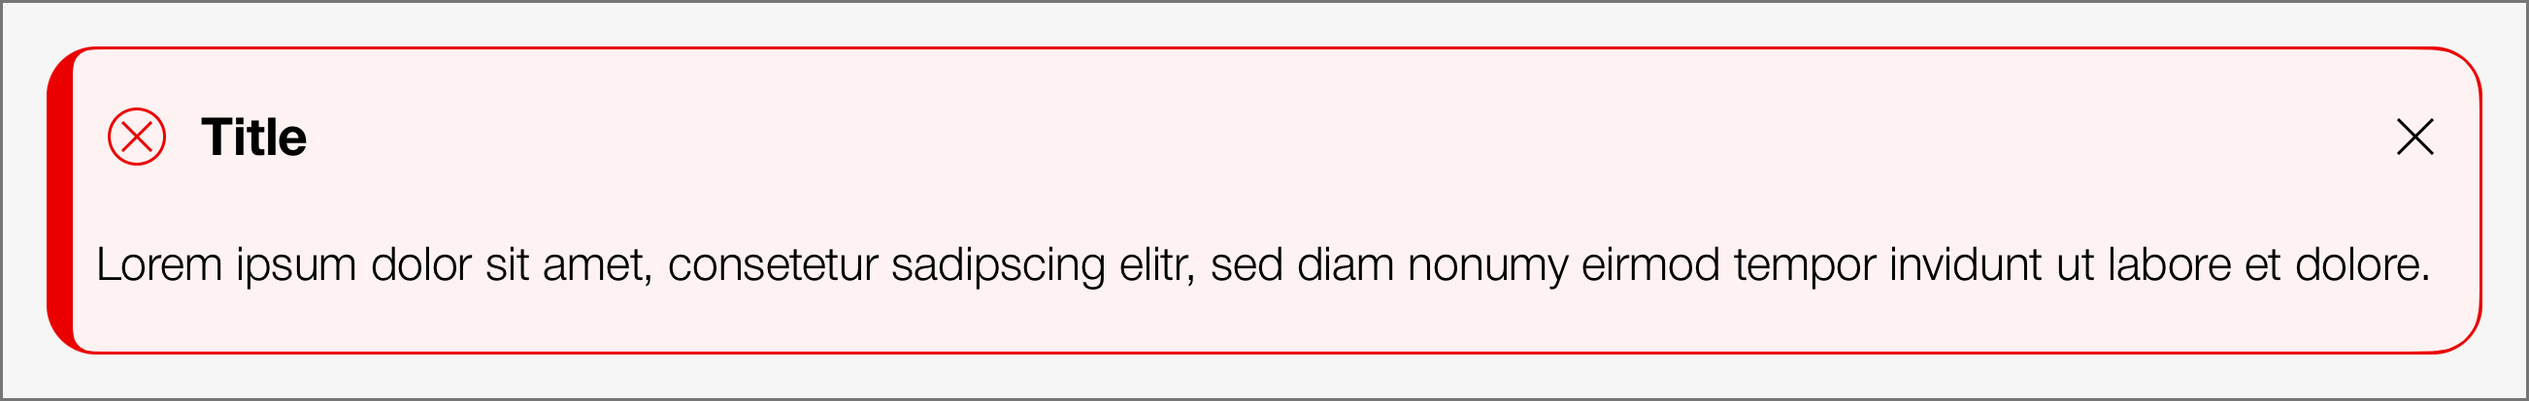
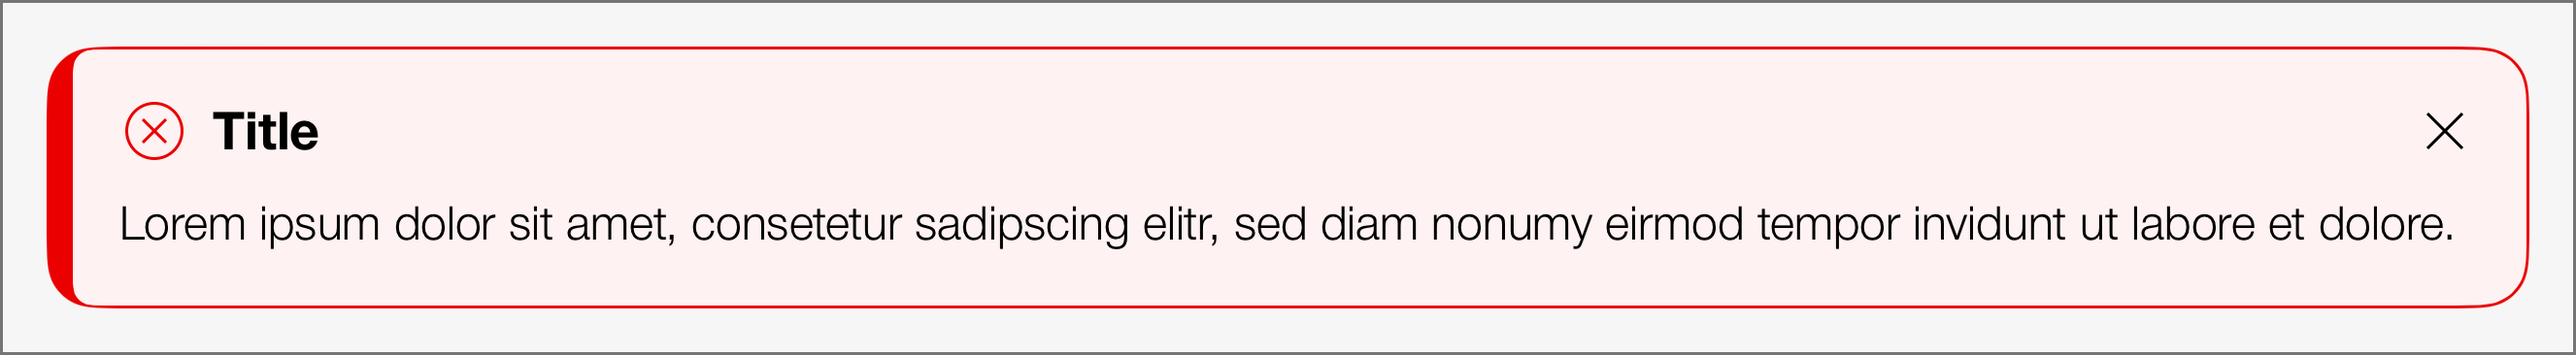
Update notifications with new feature: retry button

diff --git a/SBBDesignSystemMobileSwiftUI/Views/SBBNotification.swift b/SBBDesignSystemMobileSwiftUI/Views/SBBNotification.swift
@@ -34,60 +34,16 @@ public struct SBBNotification: View {
     let canBeClosed: Bool
     let onClose: (() -> ())?
     let onMoreInfo: (() -> ())?
+    let onRetry: (() -> ())?
     let maxNumberLines: Int?
     let closeAfterSeconds: Int?
+    var moreInfoAccessibility: String = "more info".localized
+    var retryAccessibility: String = "retry".localized
     
     private var timer: Timer?
     
     /**
-     Returns a SBBNotification.
-     
-     - Parameters:
-        - isPresented: Whether the notification is displayed.
-        - statusType: The type of status for the notification.
-        - title: The title of the notification.
-        - text: The content text for the notification.
-        - maxNumberLines: The optional max of number of lines used by the text.
-        - closeAfterSeconds: The optional time in seconds after which the notification closes.
-        - onClose: The optional action to do when the notification is closed.
-        - onMoreInfo: The optional action to do when tapping on more action (only displayed if there is indeed an action).
-     */
-    public init(isPresented: Binding<Bool>, statusType: StatusType, title: Text, text: Text, maxNumberLines: Int? = nil, closeAfterSeconds: Int? = nil, onClose: (() -> ())? = nil, onMoreInfo: (() -> ())? = nil) {
-        self._isPresented = isPresented
-        self.canBeClosed = true
-        self.statusType = statusType
-        self.title = title
-        self.text = text
-        self.maxNumberLines = maxNumberLines
-        self.closeAfterSeconds = closeAfterSeconds
-        self.onClose = onClose
-        self.onMoreInfo = onMoreInfo
-    }
-    
-    /**
-     Returns a SBBNotification.
-     
-     - Parameters:
-        - statusType: The type of status for the notification.
-        - title: The title of the notification.
-        - text: The content text for the notification.
-        - maxNumberLines: The optional max of number of lines used by the text.
-        - onMoreInfo: The optional action to do when tapping on more action (only displayed if there is indeed an action).
-     */
-    public init(statusType: StatusType, title: Text, text: Text, maxNumberLines: Int? = nil, onMoreInfo: (() -> ())? = nil) {
-        self._isPresented = .constant(true)
-        self.canBeClosed = false
-        self.statusType = statusType
-        self.title = title
-        self.text = text
-        self.maxNumberLines = maxNumberLines
-        self.closeAfterSeconds = nil
-        self.onClose = nil
-        self.onMoreInfo = onMoreInfo
-    }
-    
-    /**
-     Returns a SBBNotification.
+     Returns a SBBNotification that can be closed.
      
      - Parameters:
         - isPresented: Whether the notification is displayed.
@@ -107,10 +63,40 @@ public struct SBBNotification: View {
         self.closeAfterSeconds = closeAfterSeconds
         self.onClose = onClose
         self.onMoreInfo = nil
+        self.onRetry = nil
     }
     
     /**
-     Returns a SBBNotification.
+     Returns a SBBNotification with title that can be closed.
+     
+     - Parameters:
+        - isPresented: Whether the notification is displayed.
+        - statusType: The type of status for the notification.
+        - title: The title of the notification.
+        - text: The content text for the notification.
+        - maxNumberLines: The optional max of number of lines used by the text.
+        - closeAfterSeconds: The optional time in seconds after which the notification closes.
+        - onClose: The optional action to do when the notification is closed.
+        - onMoreInfo: The optional action to do when tapping on more action (only displayed if there is indeed an action).
+     */
+    public init(isPresented: Binding<Bool>, statusType: StatusType, title: Text, text: Text, maxNumberLines: Int? = nil, closeAfterSeconds: Int? = nil, onClose: (() -> ())? = nil, onMoreInfo: (() -> ())? = nil, moreInfoAccessibility: String? = nil) {
+        self._isPresented = isPresented
+        self.canBeClosed = true
+        self.statusType = statusType
+        self.title = title
+        self.text = text
+        self.maxNumberLines = maxNumberLines
+        self.closeAfterSeconds = closeAfterSeconds
+        self.onClose = onClose
+        self.onMoreInfo = onMoreInfo
+        self.onRetry = nil
+        if let moreInfoAccessibility = moreInfoAccessibility {
+            self.moreInfoAccessibility = moreInfoAccessibility
+        }
+    }
+    
+    /**
+     Returns a SBBNotification  that cannot be closed.
      
      - Parameters:
         - statusType: The type of status for the notification.
@@ -127,6 +113,84 @@ public struct SBBNotification: View {
         self.closeAfterSeconds = nil
         self.onClose = nil
         self.onMoreInfo = nil
+        self.onRetry = nil
+    }
+    
+    /**
+     Returns a SBBNotification with title that cannot be closed, with optional 'more info' button.
+     
+     - Parameters:
+        - statusType: The type of status for the notification.
+        - title: The title of the notification.
+        - text: The content text for the notification.
+        - maxNumberLines: The optional max of number of lines used by the text.
+        - onMoreInfo: The optional action to do when tapping on more action (only displayed if there is indeed an action).
+     */
+    public init(statusType: StatusType, title: Text, text: Text, maxNumberLines: Int? = nil, onMoreInfo: (() -> ())? = nil, moreInfoAccessibility: String? = nil) {
+        self._isPresented = .constant(true)
+        self.canBeClosed = false
+        self.statusType = statusType
+        self.title = title
+        self.text = text
+        self.maxNumberLines = maxNumberLines
+        self.closeAfterSeconds = nil
+        self.onClose = nil
+        self.onMoreInfo = onMoreInfo
+        self.onRetry = nil
+        if let moreInfoAccessibility = moreInfoAccessibility {
+            self.moreInfoAccessibility = moreInfoAccessibility
+        }
+    }
+    
+    /**
+     Returns a SBBNotification that cannot be closed, with 'retry' button.
+     
+     - Parameters:
+        - statusType: The type of status for the notification.
+        - text: The content text for the notification.
+        - maxNumberLines: The optional max of number of lines used by the text.
+        - onRetry: The  action to do when tapping on retry.
+     */
+    public init(statusType: StatusType, text: Text, maxNumberLines: Int? = nil, onRetry: @escaping (() -> ()), retryAccessibility: String? = nil) {
+        self._isPresented = .constant(true)
+        self.canBeClosed = false
+        self.statusType = statusType
+        self.title = nil
+        self.text = text
+        self.maxNumberLines = maxNumberLines
+        self.closeAfterSeconds = nil
+        self.onClose = nil
+        self.onMoreInfo = nil
+        self.onRetry = onRetry
+        if let retryAccessibility = retryAccessibility {
+            self.retryAccessibility = retryAccessibility
+        }
+    }
+    
+    /**
+     Returns a SBBNotification with title that cannot be closed, with 'retry' button.
+     
+     - Parameters:
+        - statusType: The type of status for the notification.
+        - title: The title of the notification.
+        - text: The content text for the notification.
+        - maxNumberLines: The optional max of number of lines used by the text.
+        - onRetry: The action to do when tapping on retry.
+     */
+    public init(statusType: StatusType, title: Text, text: Text, maxNumberLines: Int? = nil, onRetry: @escaping (() -> ()), retryAccessibility: String? = nil) {
+        self._isPresented = .constant(true)
+        self.canBeClosed = false
+        self.statusType = statusType
+        self.title = title
+        self.text = text
+        self.maxNumberLines = maxNumberLines
+        self.closeAfterSeconds = nil
+        self.onClose = nil
+        self.onMoreInfo = nil
+        self.onRetry = onRetry
+        if let retryAccessibility = retryAccessibility {
+            self.retryAccessibility = retryAccessibility
+        }
     }
     
     private var backgroundColor: Color {
@@ -170,16 +234,16 @@ public struct SBBNotification: View {
                 onClose()
             }
         }) {
-            Image(sbbIcon: .cross_small)
+            Image(sbbIcon: sizeCategory.isAccessibilityCategory ? .cross_medium : .cross_small)
                 .foregroundColor(Color.sbbColor(.textBlack))
                 .frame(width: iconSize, height: iconSize)
         }
     }
-    
+
     public var body: some View {
         if self.isPresented {
             VStack(spacing: 0) {
-                VStack(spacing: 10) {
+                VStack(spacing: 8) {
                     if let title = title {
                         HStack {
                             icon
@@ -192,6 +256,8 @@ public struct SBBNotification: View {
                                 closeButton
                             }
                         }
+                        .accessibilityElement(children: .combine)
+                        .accessibilityLabel(canBeClosed && onMoreInfo != nil ? title + Text(". \("close".localized)") : title)
                     }
                     HStack(alignment: .top) {
                         if title == nil {
@@ -220,23 +286,33 @@ public struct SBBNotification: View {
                             Button(action: {
                                 onMoreInfo()
                             }) {
-                                Image(sbbIcon: .chevron_small_right_medium)
+                                Image(sbbIcon: sizeCategory.isAccessibilityCategory ? .chevron_right_medium : .chevron_small_right_medium)
                                     .foregroundColor(Color.sbbColor(.textBlack))
-                                    .frame(height: textSize.height)
+                                    .frame(width: iconSize, height: textSize.height)
                             }
                         } else if title == nil && canBeClosed {
                             closeButton
+                        } else if let onRetry = onRetry {
+                            Button(action: {
+                                onRetry()
+                            }) {
+                                Image(sbbIcon: sizeCategory.isAccessibilityCategory ? .arrows_circle_medium : .arrows_circle_small)
+                            }
+                            .buttonStyle(SBBIconButtonStyle(size: sizeCategory.isAccessibilityCategory ? .large : .small))
+                            .frame(height: textSize.height)
                         }
                     }
+                        .accessibilityElement(children: .combine)
+                        .accessibilityLabel(onMoreInfo != nil ? text + Text(moreInfoAccessibility.localized) : canBeClosed ? text + Text("close".localized) : onRetry != nil ? text + Text(retryAccessibility) : text)
                 }
-                .sbbScreenPadding()
-                .padding(.leading, 8)
+                .padding(16)
                 .background(Color.sbbColor(colorScheme == .dark ? .black : .white).opacity(colorScheme == .dark ? 0.85 : 0.95))
                 .cornerRadius(16, corners: [.topRight, .bottomRight])
                 .cornerRadius(7, corners: [.topLeft, .bottomLeft])
                 .padding(1)
                 .padding(.leading, 8)
             }
+            .accessibilityElement(children: canBeClosed && onMoreInfo != nil ? .contain : .combine)
             .background(backgroundColor)
             .cornerRadius(17)
             .transition(.opacity)
@@ -260,10 +336,12 @@ struct SBBNotification_Previews: PreviewProvider {
             VStack {
                 SBBNotification(isPresented: .constant(true), statusType: .alert, title: Text("Title"), text: Text("Lorem ipsum dolor sit amet, consetetur sadipscing elitr, sed diam nonumy eirmod tempor invidunt ut labore et dolore."))
                 SBBNotification(isPresented: .constant(true), statusType: .alert, title: Text("Title"), text: Text("Lorem ipsum dolor sit amet, consetetur sadipscing elitr, sed diam nonumy eirmod tempor invidunt ut labore et dolore."), onMoreInfo: {})
+                SBBNotification(statusType: .alert, title: Text("Title"), text: Text("Lorem ipsum dolor sit amet, consetetur sadipscing elitr, sed diam nonumy eirmod tempor invidunt ut labore et dolore."), onRetry: {})
             }
             .previewDisplayName("Normal")
             VStack {
                 SBBNotification(isPresented: .constant(true), statusType: .alert, text: Text("Lorem ipsum dolor sit amet, consetetur sadipscing elitr, sed diam nonumy eirmod tempor invidunt ut labore et dolore."))
+                SBBNotification(statusType: .alert, text: Text("Lorem ipsum dolor sit amet, consetetur sadipscing elitr, sed diam nonumy eirmod tempor invidunt ut labore et dolore."), onRetry: {})
             }
             .previewDisplayName("No title")
             VStack {
@@ -284,6 +362,12 @@ struct SBBNotification_Previews: PreviewProvider {
             }
             .environment(\.sizeCategory, .accessibilityLarge)
             .previewDisplayName("Accessibility no title")
+            VStack {
+                SBBNotification(statusType: .info, text: Text("Lorem ipsum dolor sit amet, consetetur sadipscing elitr, sed diam nonumy eirmod tempor invidunt ut labore et dolore."), onRetry: {})
+                SBBNotification(statusType: .success, text: Text("Lorem ipsum dolor sit amet, consetetur sadipscing elitr, sed diam nonumy eirmod tempor invidunt ut labore et dolore."), maxNumberLines: 4, onRetry: {})
+            }
+            .environment(\.sizeCategory, .accessibilityLarge)
+            .previewDisplayName("Accessibility retry")
         }
         .previewLayout(.sizeThatFits)
     }

diff --git a/SBBDesignSystemMobileSwiftUIDemo/Views/DetailViews/NotificationDemo.swift b/SBBDesignSystemMobileSwiftUIDemo/Views/DetailViews/NotificationDemo.swift
@@ -12,6 +12,7 @@ struct NotificationDemo: View {
     @State var isPresented2: Bool = true
     @State var isPresented3: Bool = true
     @State var showMoreInfo: Bool = false
+    @State var retry: Bool = false
     @State var selectedStatus: StatusType = .alert
     
     @State var canBeClosed: Bool = false
@@ -59,7 +60,7 @@ struct NotificationDemo: View {
                     SBBNotification(isPresented: $isPresented1, statusType: selectedStatus, title: Text("Title"), text: Text("Lorem ipsum dolor sit amet, consetetur sadipscing elitr, sed diam nonumy eirmod tempor invidunt ut labore et dolore."), maxNumberLines: enableMaxNumberLines ? maxNumberLines : nil)
                 }
                 
-                if !isPresented1 {
+                if !isPresented1 && canBeClosed {
                     HStack {
                         Spacer()
                         Button(action: {
@@ -80,7 +81,7 @@ struct NotificationDemo: View {
                 } else {
                     SBBNotification(isPresented: $isPresented2, statusType: selectedStatus, text: Text("Lorem ipsum dolor sit amet, consetetur sadipscing elitr, sed diam nonumy eirmod tempor invidunt ut labore et dolore."), maxNumberLines: enableMaxNumberLines ? maxNumberLines : nil)
                 }
-                if !isPresented2 {
+                if !isPresented2 && canBeClosed {
                     HStack {
                         Spacer()
                         Button(action: {
@@ -107,7 +108,7 @@ struct NotificationDemo: View {
                         self.showMoreInfo = true
                     })
                 }
-                if !isPresented3 {
+                if !isPresented3 && canBeClosed {
                     HStack {
                         Spacer()
                         Button(action: {
@@ -119,10 +120,25 @@ struct NotificationDemo: View {
                         Spacer()
                     }
                 }
+                
+                if !canBeClosed {
+                    Text("With title and retry")
+                    SBBNotification(statusType: selectedStatus, title: Text("Title"), text: Text("Lorem ipsum dolor sit amet, consetetur sadipscing elitr, sed diam nonumy eirmod tempor invidunt ut labore et dolore."), maxNumberLines: enableMaxNumberLines ? maxNumberLines : nil, onRetry: {
+                        self.retry = true
+                    })
+                    
+                    Text("Without title and retry")
+                    SBBNotification(statusType: selectedStatus, text: Text("Lorem ipsum dolor sit amet, consetetur sadipscing elitr, sed diam nonumy eirmod tempor invidunt ut labore et dolore."), maxNumberLines: enableMaxNumberLines ? maxNumberLines : nil, onRetry: {
+                        self.retry = true
+                    })
+                }
                                     
             }
             .sbbScreenPadding()
         }
+        .alert(isPresented: $retry, content: {
+            Alert(title: Text("Retry"), message: Text("Retrying something..."), dismissButton: .cancel(Text("OK")))
+        })
         .sbbModal(isPresented: $showMoreInfo) {
             SBBModalView(title: Text("More info"), style: .bottom, isPresented: $showMoreInfo) {
                 VStack {
